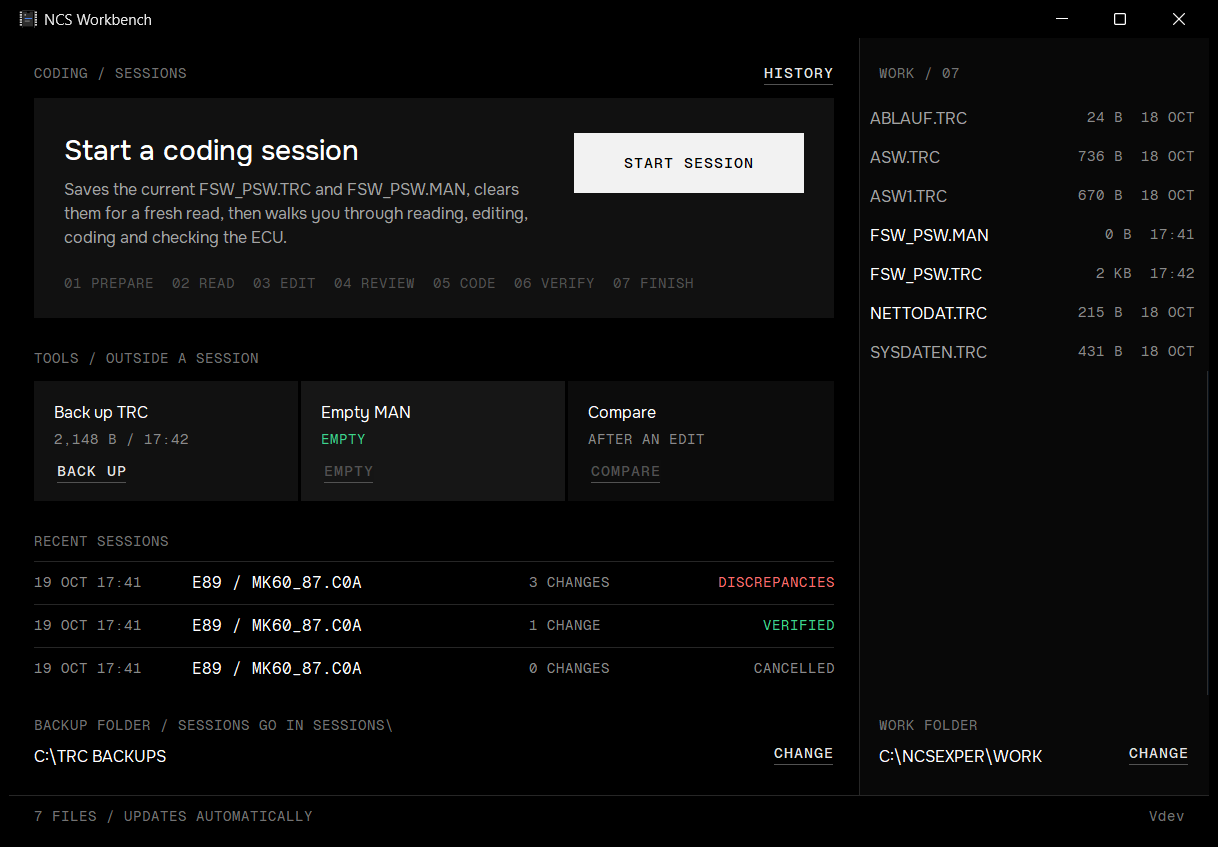
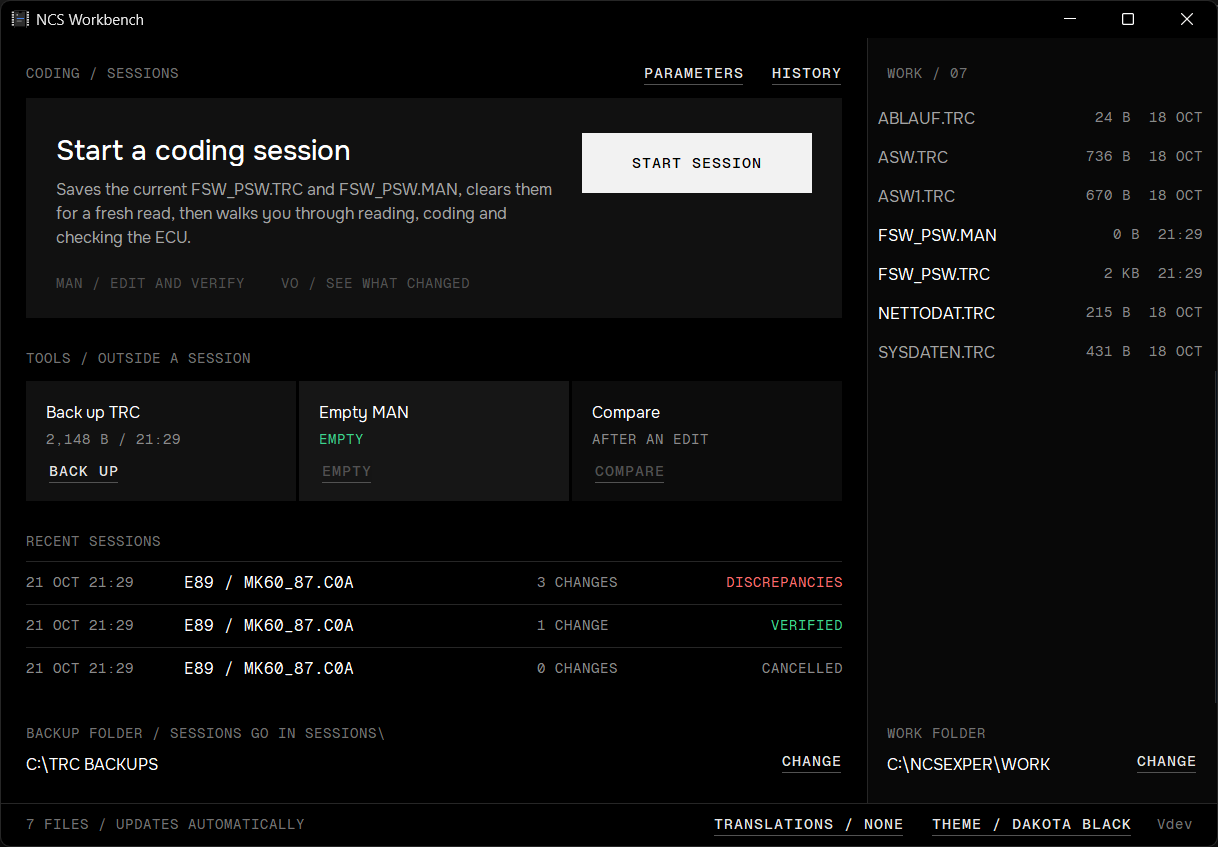
Add a guide for VO coding sessions.
docs/guides/vo-sessions.md covers the VO stages: preparing WORK with VO
picked, the read and the ECU, coding from the VO with the MAN kept
empty, the read-back, what changed, the finish and history. Screenshots
in docs/screenshots/vo-sessions/ come from one session driven through
the app with a real PGS read before and after VO coding (E89 coding,
coded in an E91) and a made-up SP-Daten folder.

guided-sessions.md stays the MAN guide; it points VO readers to the new
guide, and its home and step 01 screenshots show the current window. The
README and the main window guide link both.

diff --git a/docs/guides/vo-sessions.md b/docs/guides/vo-sessions.md
@@ -1,0 +1,128 @@
+# VO coding sessions
+
+A VO session guides you through coding an ECU from the vehicle order (VO, the FA) with `SG_CODIEREN`: after changing the VO's option codes, or to bring a replacement or second-hand module in line with the car. NCS Expert reads, Workbench captures, NCS Expert codes from the VO, Workbench reads back and shows what changed. No NCS Dummy and no MAN edit are involved.
+
+Unlike a [MAN session](guided-sessions.md), nothing tells Workbench in advance what the values should be: NCS Expert works them out from the VO and SP-Daten. So the read-back isn't checked against a target. It's compared with the first read, and you see every function the coding changed.
+
+The screenshots were taken on a test setup: a real read of a PGS (Comfort Access) module before and after VO coding, a made-up SP-Daten folder and `C:\TRC BACKUPS` as the backup folder. The module had been coded for an E89; VO coding in an E91 changed three functions. For the rest of the window, see [Main window and tools](main-window.md).
+
+## Before you start
+
+- **Backup folder.** Sessions are saved in its `Sessions` folder. If none is set, you're asked for one when you start your first session.
+- **SP-Daten** (`C:\NCSEXPER\DATEN`) is optional. With it, the chassis list comes from SP-Daten and the module is suggested from the trace.
+- **FSW_PSW.MAN.** NCS Expert codes a non-empty `FSW_PSW.MAN` on top of the VO. Workbench empties it when the session starts and checks it's still empty before you code.
+
+## 01 Prepare WORK
+
+![Prepare WORK before the session starts, VO picked: the TRC is saved then deleted, the MAN saved then emptied so NCS Expert doesn't code it on top of the VO, and the VO stages to come](../screenshots/vo-sessions/01-prepare-work.png)
+
+**START SESSION** on the home screen shows step 01 in the window. Nothing has started yet, and nothing in WORK changes until you confirm. Pick **VO**; Workbench offers the type you picked last time, and the **NEXT** strip shows the VO stages to come. The tile lists what will happen to the two files, and updates if they change while you look:
+
+- `FSW_PSW.TRC` is saved to the session folder, then **deleted**, so the next read is clearly a new one.
+- `FSW_PSW.MAN` is saved, then **emptied**, so NCS Expert doesn't code it on top of the VO. If there's no MAN, an empty one is created.
+
+Nothing else in WORK is touched. **SAVE AND CLEAR** is red because it changes files, and **CANCEL** (or Esc) has the focus and goes back to the home screen. **CHANGE** next to the session folder picks another backup folder.
+
+**Use this FSW_PSW.TRC as the first read** skips step 02 and keeps the TRC. Only tick it if you're sure the trace was just read from this car and this ECU and nothing was coded since. If preparing stops (a file open in another program, a full backup drive), see [If preparing fails](guided-sessions.md#if-preparing-fails).
+
+## 02 Read the ECU
+
+![Read the ECU: load the VO from the CAS, Process ECU, CODIERDATEN_LESEN, and the FSW_PSW.TRC box saying it's not in WORK yet](../screenshots/vo-sessions/02-read.png)
+
+In NCS Expert, load the VO from the CAS (F1, then F3), choose **Process ECU** and pick the ECU. Run `CODIERDATEN_LESEN` and come back. Workbench takes the new `FSW_PSW.TRC` on its own, once NCS Expert has finished writing it. **CHECK NOW** looks right away.
+
+This read is the **before** of the session: every change is measured against it.
+
+![Which ECU was this? dialog: chassis E91, module PGS_L2.C04 suggested from the trace (11/11), vehicle PZ12345](../screenshots/vo-sessions/03-ecu-dialog.png)
+
+The trace doesn't say which ECU it came from, so you confirm it, as in a [MAN session](guided-sessions.md#which-ecu-was-this). With SP-Daten, the module is suggested from the trace's function names. **CONFIRM** also saves a copy named `CHASSIS-MODULE-YYYYMMDD-HHMM-FSW_PSW.TRC`, which NCS Dummy can open if you want to look at the read there. **READ AGAIN** discards the read and waits for a new one.
+
+## 03 Code from the VO
+
+![Code from the vehicle order: FSW_PSW.MAN isn't empty, it would be coded too, with EMPTY MAN](../screenshots/vo-sessions/04-code-man-not-empty.png)
+
+The last line of the checklist is checked by Workbench: **FSW_PSW.MAN in WORK must be empty or missing.** Here a MAN turned up after the read (exported from NCS Dummy, say), so the status line is red. Coding now would apply that MAN on top of the VO.
+
+**EMPTY MAN** saves the MAN to the session folder first, then empties it:
+
+![Empty FSW_PSW.MAN? dialog with SAVE AND EMPTY](../screenshots/vo-sessions/05-empty-man-dialog.png)
+
+![Code from the vehicle order: three items ticked and FSW_PSW.MAN in WORK is empty, checked by Workbench](../screenshots/vo-sessions/06-code.png)
+
+Now run `SG_CODIEREN` for the ECU in NCS Expert. The rest of the checklist is a reminder; you don't have to tick everything.
+
+Workbench can't see whether coding worked. Click **I HAVE CODED** once NCS Expert reports the job finished; it's recorded as your confirmation. While the MAN isn't empty, **I HAVE CODED** is refused. If you already coded with a MAN in WORK, empty it and run `SG_CODIEREN` again.
+
+## 04 Read back
+
+![Read back: coding reported, PREPARE READ-BACK and FINISH WITHOUT READ-BACK](../screenshots/vo-sessions/07-coded.png)
+
+To see what the coding changed, read the ECU again. **PREPARE READ-BACK** clears WORK the same way as step 01:
+
+![Prepare the read-back dialog: the TRC is saved then deleted; the MAN is already empty, nothing to do](../screenshots/vo-sessions/08-readback-dialog.png)
+
+![Waiting for the read-back trace](../screenshots/vo-sessions/09-awaiting-readback.png)
+
+Run `CODIERDATEN_LESEN` for the same ECU. The read-back is taken like the first read; even a trace identical to the first one counts, since WORK was cleared. **FINISH WITHOUT READ-BACK** finishes without one, but then nothing shows what the coding did.
+
+## 05 See what changed
+
+![See what changed: Y_BAUREIHE and ANTENNENPARA e89 to e91, ANTENNA_DIAG_PARA e89 to a list of chassis; 3 changed, 8 same](../screenshots/vo-sessions/10-changes.png)
+
+Every function the read-back differs in from the first read:
+
+| Row | Meaning |
+|---|---|
+| Blue bar, blue value | The value changed. |
+| Amber bar, **NOT AFTER** | The function was in the first read but isn't in the read-back. |
+| Amber bar, **NOT BEFORE** | The function is new in the read-back. |
+
+Here the module had been coded for an E89 (`Y_BAUREIHE e89`). Coding from the E91's VO set the series and antenna parameters for the E91 and left the other eight functions as they were.
+
+The values come from the VO and SP-Daten, so Workbench can't tell whether they're what you wanted. Check them against what you meant to change. **SHOW ALL** opens the two reads side by side; its own **SHOW ALL** lists every function, not only the changes:
+
+![First read vs read-back: the three changed functions, with SHOW ALL](../screenshots/vo-sessions/11-show-all.png)
+
+If the read-back has under half of the first read's functions, an amber warning asks whether it came from the same ECU. **READ BACK AGAIN** clears WORK and waits for another read-back.
+
+## Finish
+
+![Finish dialog: 3 changed, 0 only before, 0 only after; coded and read back picked from the results](../screenshots/vo-sessions/12-finish.png)
+
+A summary of the session, the two reads it saved, and the outcome. The outcome is picked from the evidence, and you can't pick one that contradicts it:
+
+| Outcome | Allowed when |
+|---|---|
+| **Coded and read back** | There's a read-back. |
+| **Coded without a read-back** | There's no read-back. |
+| **Failed** | Always, for example when NCS Expert reported an error. |
+
+If `FSW_PSW.MAN` in WORK has something in it, **Empty FSW_PSW.MAN in WORK (saved first)** is offered and ticked. **FINISH SESSION** closes the session; **BACK** returns to it.
+
+## History
+
+![Home screen with the finished VO session under RECENT SESSIONS: E89 / PGS_L2.C04, 3 changes, READ BACK](../screenshots/vo-sessions/14-home.png)
+
+A finished VO session shows **READ BACK** (or **NOT READ BACK**) under **RECENT SESSIONS** and in **HISTORY**:
+
+![Session history: the VO session's files with OPEN, and what the VO coding changed](../screenshots/vo-sessions/13-history.png)
+
+- **Files:** the TRC and MAN as they were before the session, the first read, the named copy, a MAN emptied during the session (**WORK MAN**) and the read-back. **OPEN** shows a file in Notepad.
+- **What the VO coding changed:** each function with its value before and after, and **CHANGED**, **ONLY BEFORE** or **ONLY AFTER**.
+- **SHOW FOLDER** and **EXPORT** work as for any session.
+
+**CANCEL SESSION** and picking up after a crash work as in a MAN session: see [Cancel a session](guided-sessions.md#cancel-a-session) and [If Workbench closes mid-session](guided-sessions.md#if-workbench-closes-mid-session).
+
+## What's saved
+
+```
+C:\TRC BACKUPS\Sessions\20261021-213043\
+  session.ini                                 the record, with type=VO
+  before-FSW_PSW.TRC, before-FSW_PSW.MAN      WORK as it was when the session started
+  read-1-FSW_PSW.TRC                          the first read (read-2, ... after READ AGAIN)
+  E89-PGS_L2.C04-20261021-2130-FSW_PSW.TRC    the named copy of the first read
+  work-1-FSW_PSW.MAN                          a MAN saved by EMPTY MAN, a read-back or the finish
+  readback-1-FSW_PSW.TRC                      each read-back
+```
+
+The copies are read-only. `session.ini` is plain text and opens in Notepad.

diff --git a/docs/guides/guided-sessions.md b/docs/guides/guided-sessions.md
@@ -18,18 +18,20 @@ The screenshots were taken on a test setup: the sample trace from `samples/`, a 
 
 ## 01 Prepare WORK
 
-![Start a session dialog: what happens to FSW_PSW.TRC and FSW_PSW.MAN, the option to use the TRC as the first read, and the session folder](../screenshots/sessions/02-start-dialog.png)
+![Prepare WORK before the session starts: MAN picked, what happens to FSW_PSW.TRC and FSW_PSW.MAN, the option to use the TRC as the first read, the stages to come and the session folder](../screenshots/sessions/02-prepare-work.png)
 
-Before anything changes, the dialog lists what will happen to the two files:
+**START SESSION** shows step 01 in the window. Nothing has started yet: **NEW SESSION / NOT STARTED** at the top, and nothing in WORK changes until you confirm. **MAN** is the type for everything in this guide; to code from the vehicle order instead, pick **VO** and see [VO coding sessions](vo-sessions.md). The **NEXT** strip lists the stages to come for the type picked.
+
+The tile lists what will happen to the two files, and updates if they change while you look:
 
 - `FSW_PSW.TRC` is saved to the session folder, then **deleted**, so the next read is clearly a new one.
 - `FSW_PSW.MAN` is saved, then **emptied**, so NCS Expert codes nothing by accident. If there's no MAN, an empty one is created.
 
-Nothing else in WORK is touched. **SAVE AND CLEAR** is red because it changes files, and **CANCEL** has the focus. If neither file has anything to clear, the button is **START** instead.
+Nothing else in WORK is touched. **SAVE AND CLEAR** is red because it changes files, and **CANCEL** (or Esc) has the focus and goes back to the home screen. If neither file has anything to clear, the button is **START** instead.
 
-**Use this FSW_PSW.TRC as the first read** skips the read in step 02 and keeps the TRC. Only tick it if you're sure the trace was just read from this car and this ECU and nothing was coded since. The amber box shows how old the trace is.
+**Use this FSW_PSW.TRC as the first read** skips the read in step 02 and keeps the TRC. Only tick it if you're sure the trace was just read from this car and this ECU and nothing was coded since. The amber box shows how old the trace is; on a small window it shrinks to one line, or moves to the status line under the title.
 
-**CHANGE** picks another backup folder. Each session gets its own folder named after the time it started, for example `Sessions\20261019-174144`.
+**CHANGE** next to the session folder picks another backup folder. Each session gets its own folder named after the time it started, for example `Sessions\20261019-174144`.
 
 ### If preparing fails
 

diff --git a/README.md b/README.md
@@ -53,7 +53,8 @@ If NCS Dummy's `Translations.csv` sits next to your `NcsDummy.exe`, Workbench sh
 
 ## Guides
 
-- [Guided coding sessions](docs/guides/guided-sessions.md): every step of a session with screenshots, what can go wrong at each one, the history window and what's saved.
+- [Guided coding sessions](docs/guides/guided-sessions.md): every step of a MAN session (edit in NCS Dummy, code, verify) with screenshots, what can go wrong at each one, the history window and what's saved.
+- [VO coding sessions](docs/guides/vo-sessions.md): coding from the vehicle order with `SG_CODIEREN`, keeping the MAN out of it, and seeing what the coding changed.
 - [Main window and tools](docs/guides/main-window.md): the home screen, the WORK folder panel and the three manual tools.
 - [Parameter Explorer and English names](docs/guides/parameter-explorer.md): searching an SP-Daten chassis for a function, reading the results, NCS Dummy's translations and their settings, and trying it on a copy of SP-Daten.
 - [Themes](docs/guides/themes.md): the five colour schemes (dark, dim and light) and how to switch between them.

diff --git a/docs/guides/main-window.md b/docs/guides/main-window.md
@@ -1,6 +1,6 @@
 # Main window and tools
 
-A tour of NCS Workbench's main window and the three manual tools: back up the TRC, empty the MAN, compare. For the guided workflow, see [Guided coding sessions](guided-sessions.md).
+A tour of NCS Workbench's main window and the three manual tools: back up the TRC, empty the MAN, compare. For the guided workflows, see [Guided coding sessions](guided-sessions.md) and [VO coding sessions](vo-sessions.md).
 
 The screenshots were taken on a test setup: the sample trace from `samples/`, a made-up SP-Daten folder and `C:\TRC BACKUPS` as the backup folder.
 
